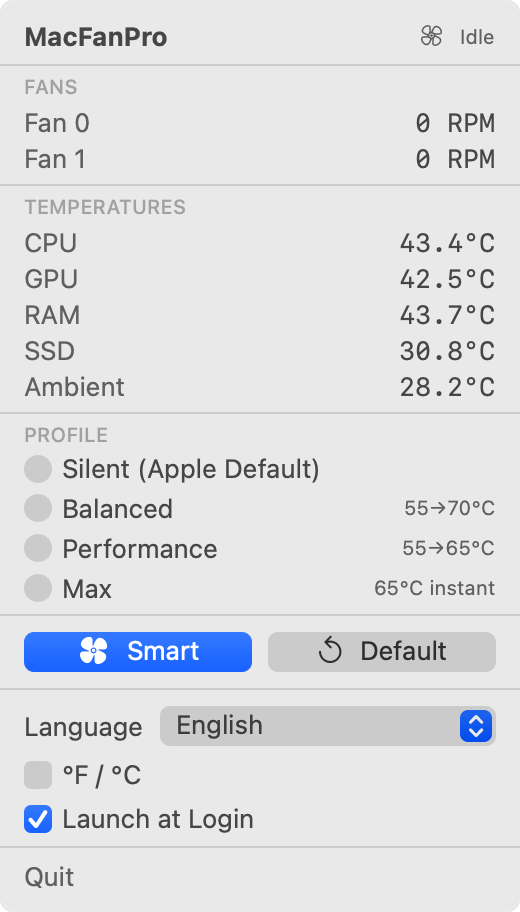
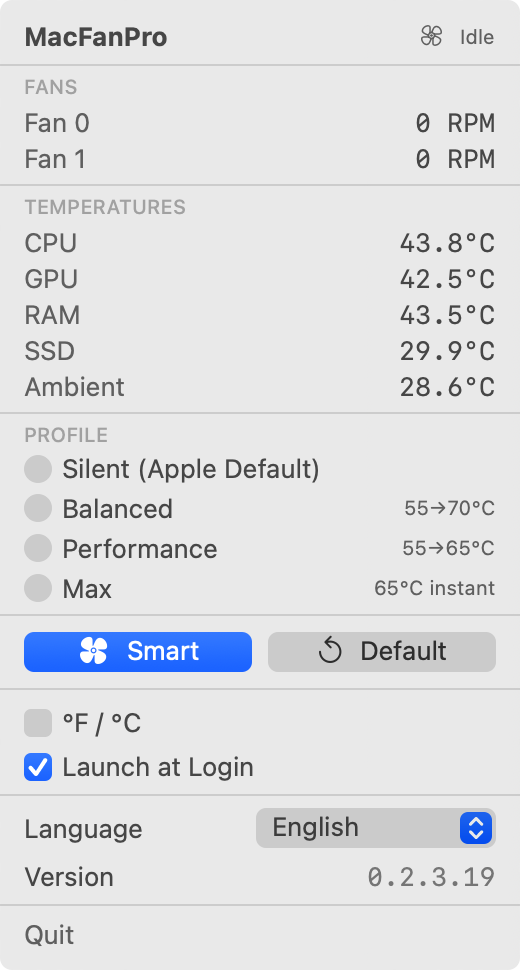
docs: refresh README screenshots and list contributors
Replace both screenshots with the installed 0.2.3.19 menu, which shows
the language and version section and the content-sized pop-up. Add a
Contributors section for @hongyukeji and link the maintainer credit.

Changed region(s): [[0.0, 0.0307, 1.0, 0.9825], [0.7692, 0.2456, 0.9538, 0.4605]]

diff --git a/README.md b/README.md
@@ -8,7 +8,7 @@
 
 MacFanPro 基于 [ThermalForge](https://github.com/ProducerGuy/ThermalForge) 独立维护，使用自己的版本、安装名称和更新渠道，并非上游官方发行版。
 
-[安装](#安装) · [使用](#使用) · [更新](#更新) · [卸载](#卸载) · [日志与数据](#日志与数据) · [常见问题](#常见问题) · [开发与贡献](#开发与贡献)
+[安装](#安装) · [使用](#使用) · [更新](#更新) · [卸载](#卸载) · [日志与数据](#日志与数据) · [常见问题](#常见问题) · [开发与贡献](#开发与贡献) · [贡献者](#贡献者)
 
 ## 功能与界面
 
@@ -18,7 +18,7 @@ MacFanPro 基于 [ThermalForge](https://github.com/ProducerGuy/ThermalForge) 独
 - **语言与显示设置**：支持英语、简体中文、繁体中文、跟随系统、摄氏/华氏切换及登录时启动。
 - **命令行与后台服务**：支持指定转速、读取状态和 CSV 数据采样；正常安装后，应用和普通控制命令通过后台服务操作风扇。
 
-下面是本机运行 MacFanPro 0.2.3.16 的真实截图，依次为英文和简体中文界面：
+下面是本机运行 MacFanPro 0.2.3.19 的真实截图，依次为英文和简体中文界面：
 
 <img src="docs/images/menu-bar-en.png" alt="MacFanPro menu in English: fan speeds, temperatures, profiles, language setting and Quit" width="320"> <img src="docs/images/menu-bar-zh-CN.png" alt="MacFanPro 菜单（简体中文）：风扇转速、温度、控制模式、语言设置与退出按钮" width="320">
 
@@ -287,6 +287,14 @@ bash Scripts/package-release.sh
 
 版本号采用 **上游版本号 + 第四段修订号**，由 [`Version.swift`](Sources/MacFanProCore/Version.swift) 定义。例如 `0.2.3.15` 基于上游 `0.2.3`；只有实际合入新的上游版本后才更新前三段。应用和 CLI 按各段数字比较版本，缺省段视为 0，不为特定旧版添加比较例外。
 
+## 贡献者
+
+<a href="https://github.com/hongyukeji"><img src="https://github.com/hongyukeji.png?size=100" width="50" height="50" alt="hongyukeji"></a>
+
+- [@hongyukeji](https://github.com/hongyukeji)：MacFanPro 维护者
+
+欢迎通过 [Issues](https://github.com/macfanpro/macfanpro/issues) 反馈问题或提交兼容性报告。
+
 ## 来源与许可
 
-MacFanPro 由 hongyukeji 维护，遵循 [MIT License](LICENSE)。项目完整保留 ThermalForge 上游版权与许可，衍生关系及第三方依赖说明见 [NOTICE.md](NOTICE.md) 和 [ThirdPartyNotices/](ThirdPartyNotices/)。
+MacFanPro 由 [@hongyukeji](https://github.com/hongyukeji) 维护，遵循 [MIT License](LICENSE)。项目完整保留 ThermalForge 上游版权与许可，衍生关系及第三方依赖说明见 [NOTICE.md](NOTICE.md) 和 [ThirdPartyNotices/](ThirdPartyNotices/)。

diff --git a/docs/macfanpro-0.2.3.19-validation.md b/docs/macfanpro-0.2.3.19-validation.md
@@ -19,4 +19,5 @@
 - 发行源提交：`cab2c77`，标签 `v0.2.3.19`。[源码 CI](https://github.com/macfanpro/macfanpro/actions/runs/35977197100)、[发行 CI](https://github.com/macfanpro/macfanpro/actions/runs/35977196614) 通过。
[1 lines of base64/hex data omitted]
 - 以先退出应用、同步后台、再打开的步骤安装下载产物；已安装的后台服务 CLI 与应用二进制与发行包逐字节一致。
-
+- Homebrew 从 0.2.3.18 升级到 0.2.3.19，`brew test` 通过；同步后后台服务 CLI、应用与 Homebrew 版逐字节一致。
+- README 的英文与简体中文截图来自本机经 Homebrew 升级后实际运行的 0.2.3.19 菜单面板（按窗口截取，520×970 像素，即 260×485 pt 的 2 倍图）；语言下拉框按内容自适应、靠右并与版本号对齐。
